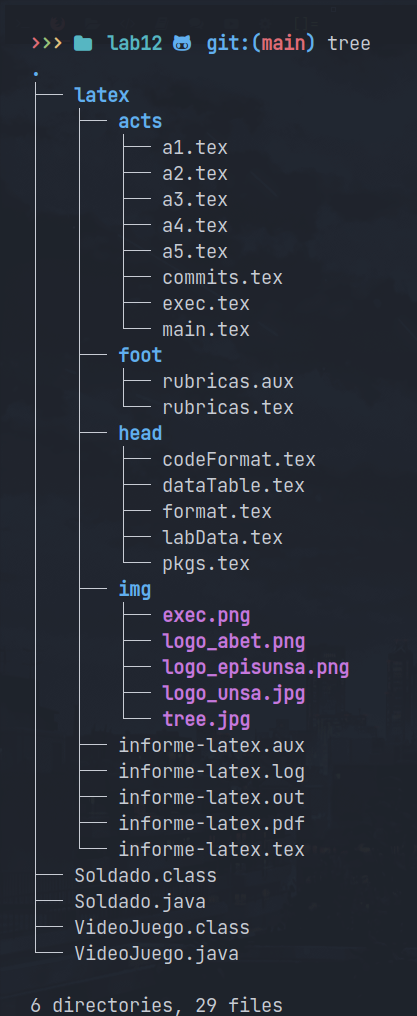
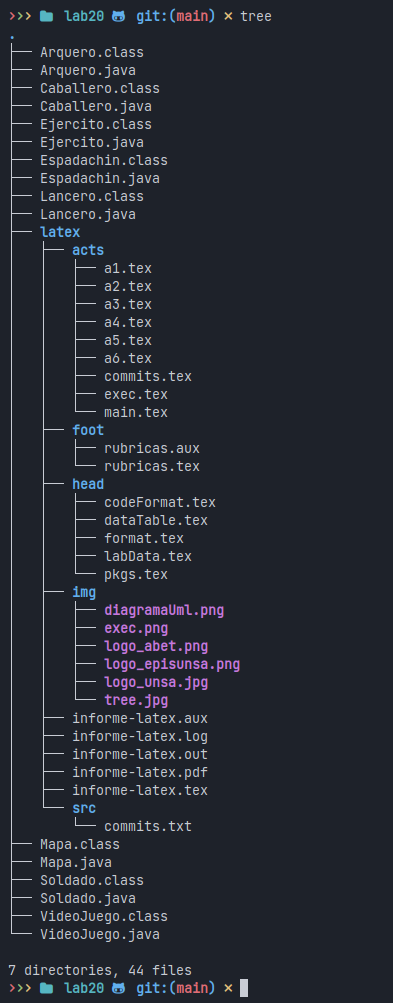
Latex parte uno informe

Changed region(s): [[0.0305, 0.0, 0.855, 1.0], [0.7939, 0.0309, 0.8855, 0.0618], [0.0916, 0.7109, 0.1221, 0.7727]]

diff --git a/fase03/lab20/latex/acts/a2.tex b/fase03/lab20/latex/acts/a2.tex
@@ -1,159 +1,50 @@
-\section{Clase Soldado}
-\begin{itemize}
-    \item Los atributos para la clase soldado son:
-\end{itemize}
-\begin{lstlisting} [language=java]
-  private String nombre;
-  private int fila;
-  private int nivelAtaque = random(5);
-  private int nivelDefensa = random(5);
-  private int columna;
-  private int nivelVida;
-  private int vidaActual;
-  private int velocidad;
-  private String actitud;
-  private boolean vive;
-  private String team;
-\end{lstlisting}
-\begin{itemize}
-  \item Cada atributo que lo requiere, tiene sus metodos setters y getters para encapsular la información.
-    \item Se usan 3 constructores sobrecargados que son los siguientes:
-\end{itemize}
+\section*{Resumen de clases}
 
-\begin{lstlisting}
-  public Soldado(String t) {
-    team = t;
-    velocidad = 0;
-    vive = true;
-    actitud = "ataque";
+El enfoque de clases sigue la siguiente estructura: 
 
-  }
-  public Soldado(int v, String t) {
-    team = t;
-    velocidad = v;
-    vive = true;
-    actitud = "ataque";
-  }
-  public Soldado(int v, int nV, String t) {
-    team = t;
-    vive = true;
-    velocidad = v;
-    nivelVida = nV;
-    actitud = "ataque";
-  }
+\textbf{Soldado:}
+\begin{lstlisting}[language=Java]
+Atributos: nombre, fila, columna, nivelVida, vidaActual, actitud, vive, team.
+Métodos: atacar(), defender(), serAtacado(), morir(), getTeam(), setNombre(), setFila(), setColumna(), setNivelVida(), getNombre(), getFila(), getColumna(), getNivelVida(), isLive(), toString(), random(), sumar(), getNumSoldados(), getNumTeam1(), getNumTeam2().
 \end{lstlisting}
 
-\begin{itemize}
-    \item Estos constructores nos servirán cuando vayamos a crear soldados con distintos datos base. 
-      \item Adicionalmente tenemos los metodos de accion del soldado:
-\end{itemize}
-\begin{lstlisting} [language=java]
-  public void atacar() {
-    actitud = "ofensiva";
-  }
-  public void defender() {
-    actitud = "defensiva";
-  }
-  public void huir() {
-    actitud = "fuga";
-    velocidad += 2;
-  }
-  public void avanzar() {
-    velocidad += 1;
-  }
-
-  public void serAtacado() {
-    vidaActual -= 1;
-    if(vidaActual == 0) morir();
-  }
-  public void morir() { 
-    vive = false;
-  }
-
-  public void retroceder() {
-    if (velocidad > 0) {
-      velocidad = 0;
-      actitud = "defensiva";
-    } else if (velocidad == 0) {
-      velocidad = -1; 
-    }
-  }
+\textbf{Arquero (hereda de Soldado):}
+\begin{lstlisting}[language=Java]
+Atributo adicional: numFlechas.
+Método adicional: disparar().
 \end{lstlisting}
 
-\begin{itemize}
-    \item Las acciones cambian los estados de los atributos del soldado, a los que accederemos despues con los metodos accesores:
-\end{itemize}
-\begin{lstlisting}
-  public String getTeam() {
-    return team; 
-  }
-
-  public void setNombre(String n) {
-    nombre = n; 
-  }
-
-  public void setFila(int f) {
-    fila = f; 
-  }
-
-  public void setColumna(int c) {
-    columna = c; 
-  }
-
-  public void setNivelVida(int p) {
-    nivelVida = p; 
-  }
-
-  public String getNombre() {
-    return nombre; 
-  }
-
-  public int getFila() {
-    return fila; 
-  }
-
-  public int getColumna() {
-    return columna; 
-  }
-
-  public int getNivelVida() {
-    return nivelVida; 
-  }
-
-  public int getNivelAtaque() {
-    return nivelAtaque; 
-  }
-
-  public int getNivelDefensa() {
-    return nivelDefensa; 
-  }
-
-  public void setNivelAtaque(int n) {
-    nivelAtaque = n; 
-  }
-
-  public void setNivelDefensa(int n) {
-    nivelDefensa = n; 
-  }
-
-  public boolean isLive() { 
-    return vive; 
-  }
+\textbf{Caballero (hereda de Soldado):}
+\begin{lstlisting}[language=Java]
+Atributos adicionales: armaActual, state.
+Métodos adicionales: desmontar(), emvestir(), getArmaActual(), getState().
 \end{lstlisting}
-\begin{itemize}
-    \item Estos metodos accesores nos servirán para manejar la lógica interna del videojuego
-      \item Adicionalmente tenemos algunos metodos auxiliares que usamos en la misma clase:
-\end{itemize}
 
-\begin{lstlisting}
-  public String toString() {
-    return "Nombre: " + nombre +
-    " | Ubicacion: " + fila + ", " + columna +
-    " | nivelVida: " + nivelVida + 
-    " | Estado: " + (vive ? "Vivo" : "Muerto") +
-    " | Actitud: "+ actitud +"\n" ;
-  }
-  private int random(int n) {
-    return (int) (Math.random() * n + 1);
-  }
+\textbf{Espadachin (hereda de Soldado):}
+\begin{lstlisting}[language=Java]
+Atributo adicional: longitudEspada.
+Método adicional: crearMuro().
+\end{lstlisting}
+
+\textbf{Lancero (hereda de Soldado):}
+\begin{lstlisting}[language=Java]
+Atributo adicional: longitudLanza.
+Método adicional: schiltrom().
+\end{lstlisting}
+
+\textbf{Ejercito:}
+\begin{lstlisting}[language=Java]
+Atributos: misEspadachines, misCaballero, misArqueros, misLanceros, team, columna, fila, nombre, reino.
+Métodos: setFila(), setColumna(), setNombre(), setReino(), getColumna(), getFila(), getNombre(), getTeam(), getReino(), getMisArqueros(), getMisCaballeros(), getMisEspadachines(), getMisLanceros(), constructor con varias sobrecargas, addSoldados(), random(), toString().
+\end{lstlisting}
+
+\textbf{Mapa:}
+\begin{lstlisting}[language=Java]
+Atributos: TERRENOS, table, terreno.
+Métodos: getTable(), getTerreno(), random().
+\end{lstlisting}
+
+\textbf{VideoJuego:}
+\begin{lstlisting}[language=Java]
+Métodos: main(), play(), addEjercito(), printTable(), random(), mover(), atacarEjercito(), atacar(), moverSoldados(), atacarSoldados().
 \end{lstlisting}

diff --git a/fase03/prac01/Sistema.java b/fase03/prac01/Sistema.java
@@ -1,6 +1,11 @@
 public class Sistema {
   public static void main(String[] args) {
+    Biblioteca biblioteca = new Biblioteca("CEDIS UNSA");
     System.out.println("Sistema de Biblioteca EPIS");
+    Usuario user = getLogin();
+
+    System.out.println("Nueva operación: ");
+    Operacion p = new Operacion(user, biblioteca);
 
   }
   public void login() {
@@ -9,6 +14,12 @@ public class Sistema {
     System.out.println("Usuario :");
     String user = sc.nextLine();
     System.out.println("Password :");
-    String psw 
+  }
+  public void signUp() {
+    
+  }
+  public void operacion() {
+    
   }
 }
+

diff --git a/fase03/lab20/latex/acts/a1.tex b/fase03/lab20/latex/acts/a1.tex
@@ -1,6 +1,6 @@
 \section{Proyecto lab12}
 \begin{itemize}
-  \item Creamos un directorio en fase02 que contenga los archivos del laboratorio y copiamos los archivos del anterior laboratorio.
+  \item Creamos un directorio en fase03 que contenga los archivos del laboratorio y copiamos los archivos del anterior laboratorio.
   \item Para el tablero se usará un array bidimensional simple.
   \item La estructura del laboratorio presente es:
 \end{itemize}
